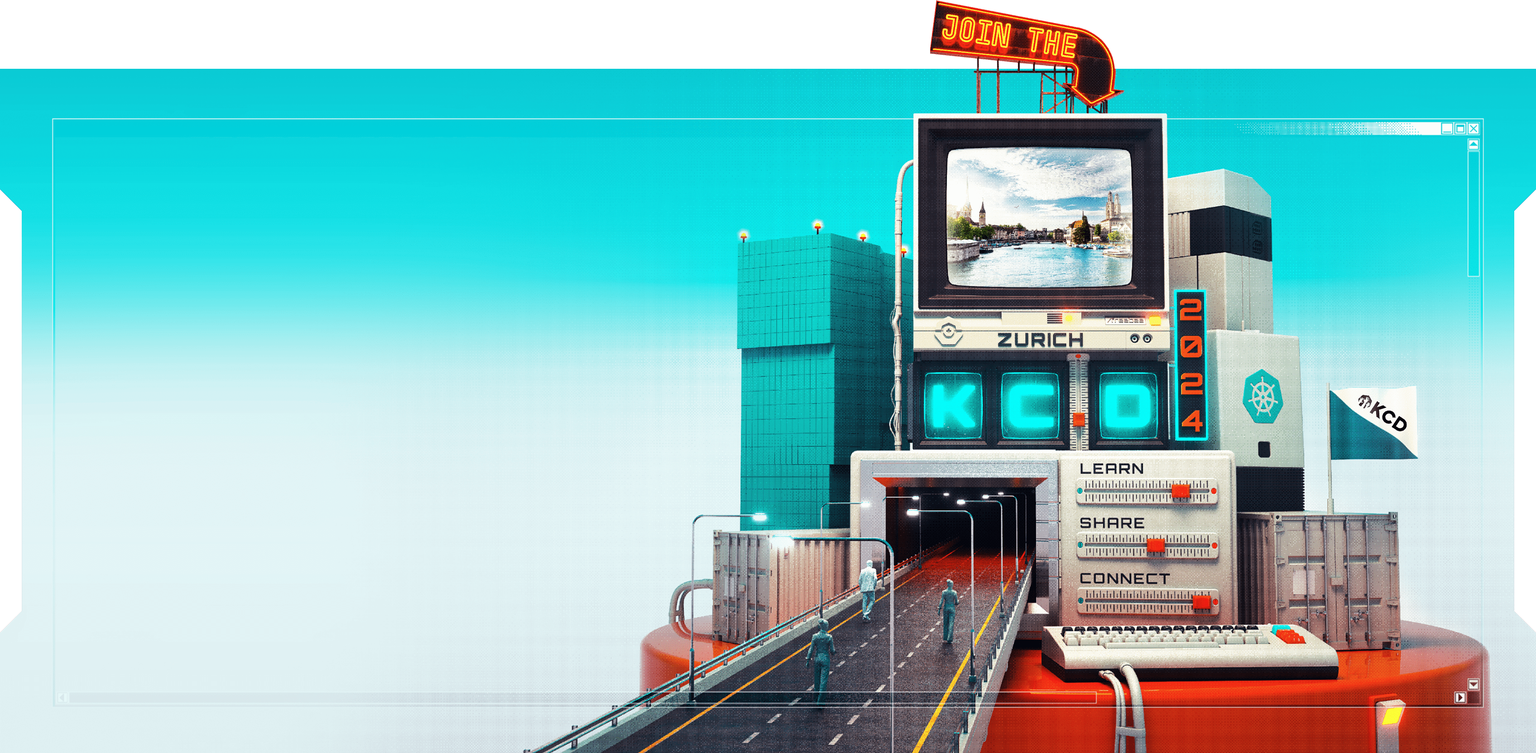
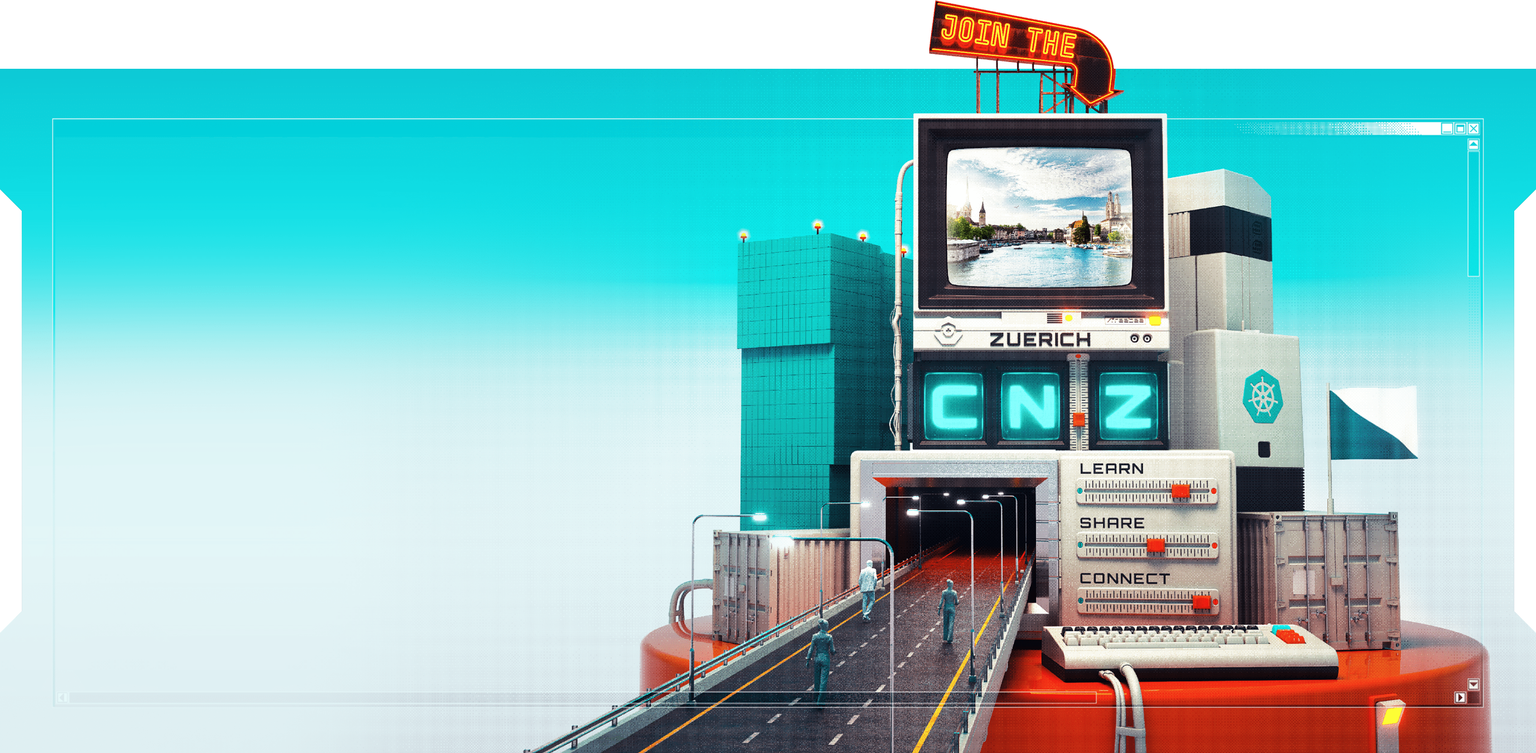
fix: og images, hero image and why rename text sections

diff --git a/src/constants/seo-data.js b/src/constants/seo-data.js
@@ -71,6 +71,7 @@ export default {
     title: 'Same Great Event, Brand New Name! Introducing Cloud Native Zürich 2025!',
     description:
       'We are excited to announce that Kubernetes Community Days Zürich will now be known as Cloud Native Zürich starting in 2025. This new name reflects our ongoing commitment to the cloud-native community and our desire to continue providing a platform for learning, networking, and knowledge sharing. Our goal and mission remain very much aligned with the CNCF and the community.',
+    ogImagePathname: '/images/why-rename-social-preview.jpg',
   },
 
   static: ({ title }) => ({

diff --git a/src/components/pages/home/hero/hero.jsx b/src/components/pages/home/hero/hero.jsx
@@ -45,7 +45,7 @@ const Hero = () => (
       alt="Hero illustration"
     />
     <StaticImage
-      className="pointer-events-none !absolute -top-[60px] left-1/2 -z-10 !mr-40 !hidden w-[1370px] -translate-x-[48%] bg-hero-gradient lg:!block md:-top-[48px] md:w-[1100px] md:-translate-x-1/2 xs:!hidden"
+      className="pointer-events-none !absolute -top-[60px] left-1/2 -z-10 !mr-40 !hidden w-[1370px] -translate-x-[52%] bg-hero-gradient lg:!block md:-top-[48px] md:w-[1100px] md:-translate-x-1/2 xs:!hidden"
       src="./images/hero-tablet.png"
       formats={['auto', 'webp']}
       loading="eager"

diff --git a/src/pages/why-rename.jsx b/src/pages/why-rename.jsx
@@ -111,9 +111,10 @@ const content = [
         </p>
       </>
     ),
+    isHighlighted: true,
   },
   {
-    title: <>A new beginning</>,
+    title: <>Clarifying our identity</>,
     content: (
       <>
         We are aware that our new name bears a strong resemblance to the “OG Cloud Native event” in
@@ -124,8 +125,6 @@ const content = [
         for the same community!
       </>
     ),
-    isHighlighted: true,
-    className: 'pb-[77px]',
   },
   {
     title: <>Looking Forward</>,
